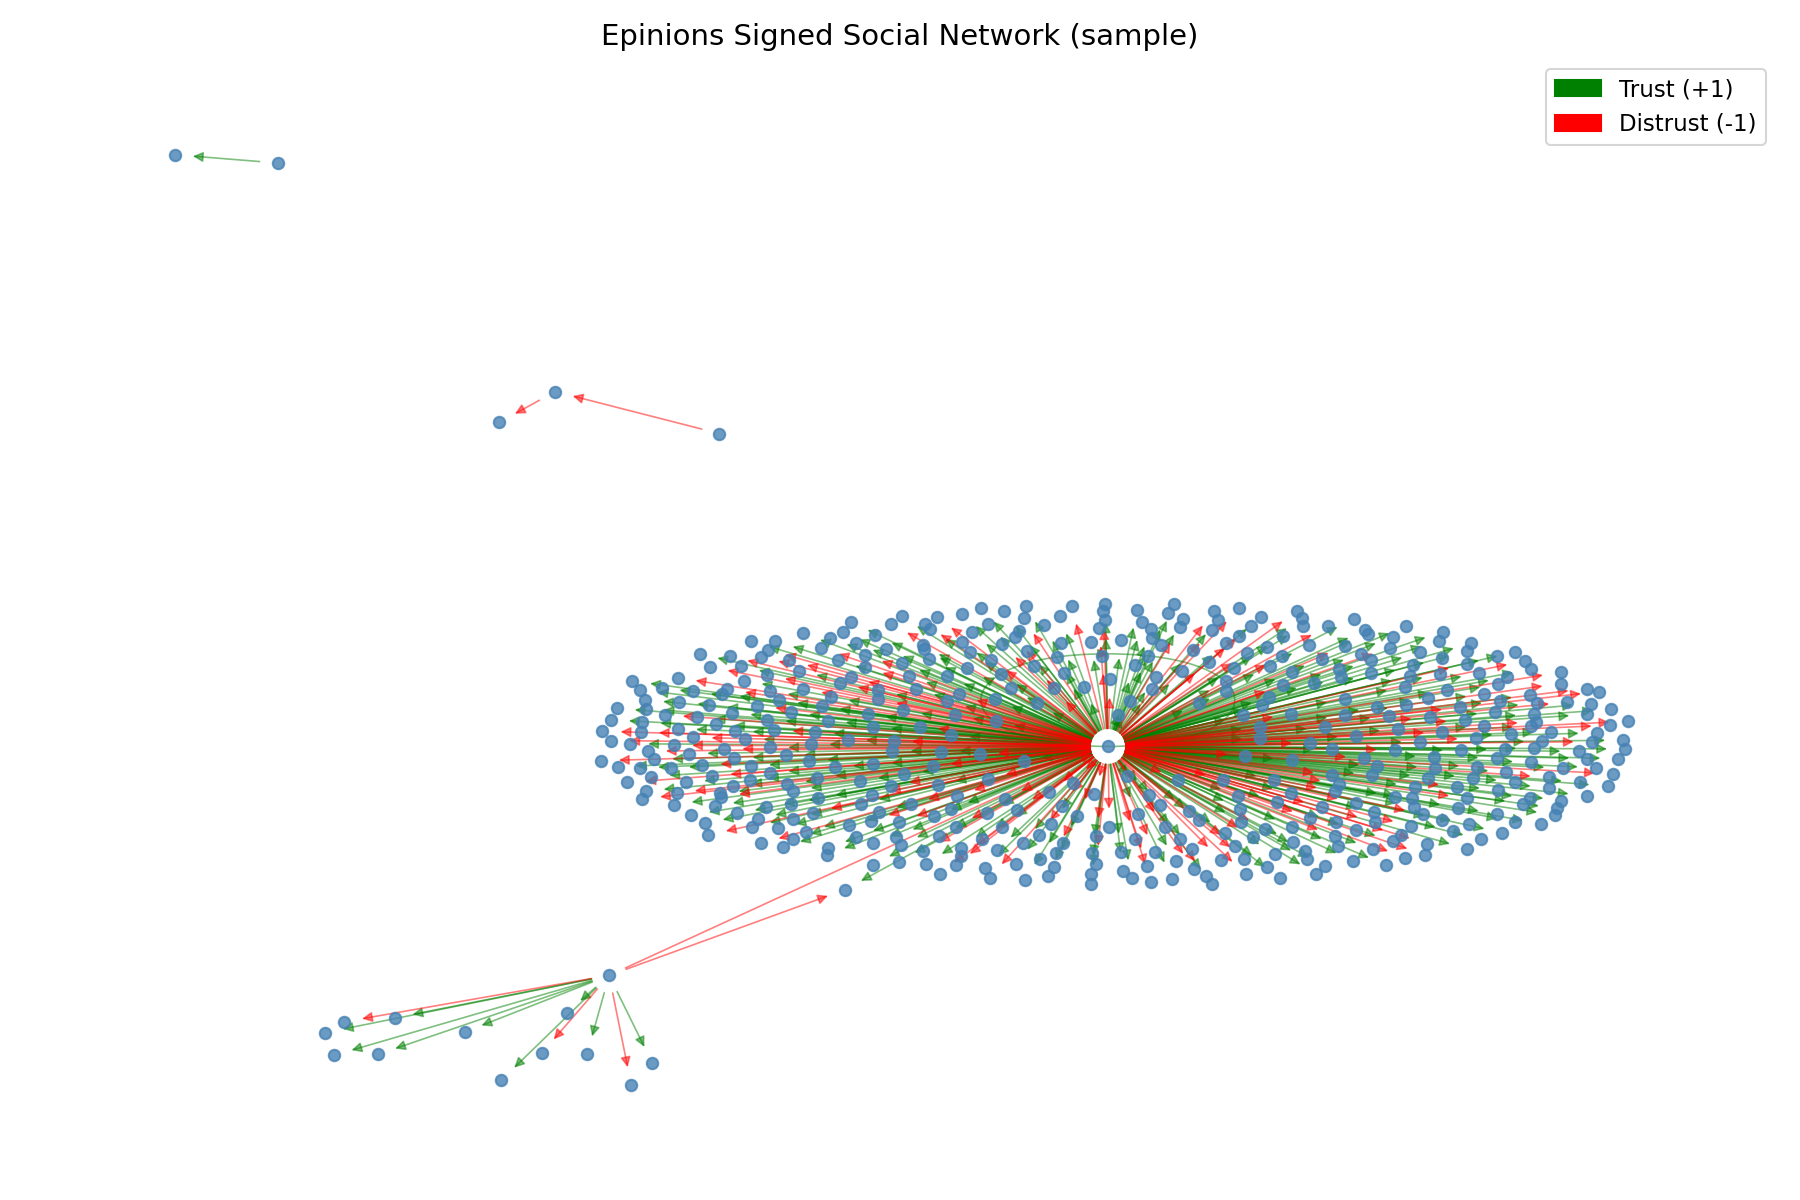
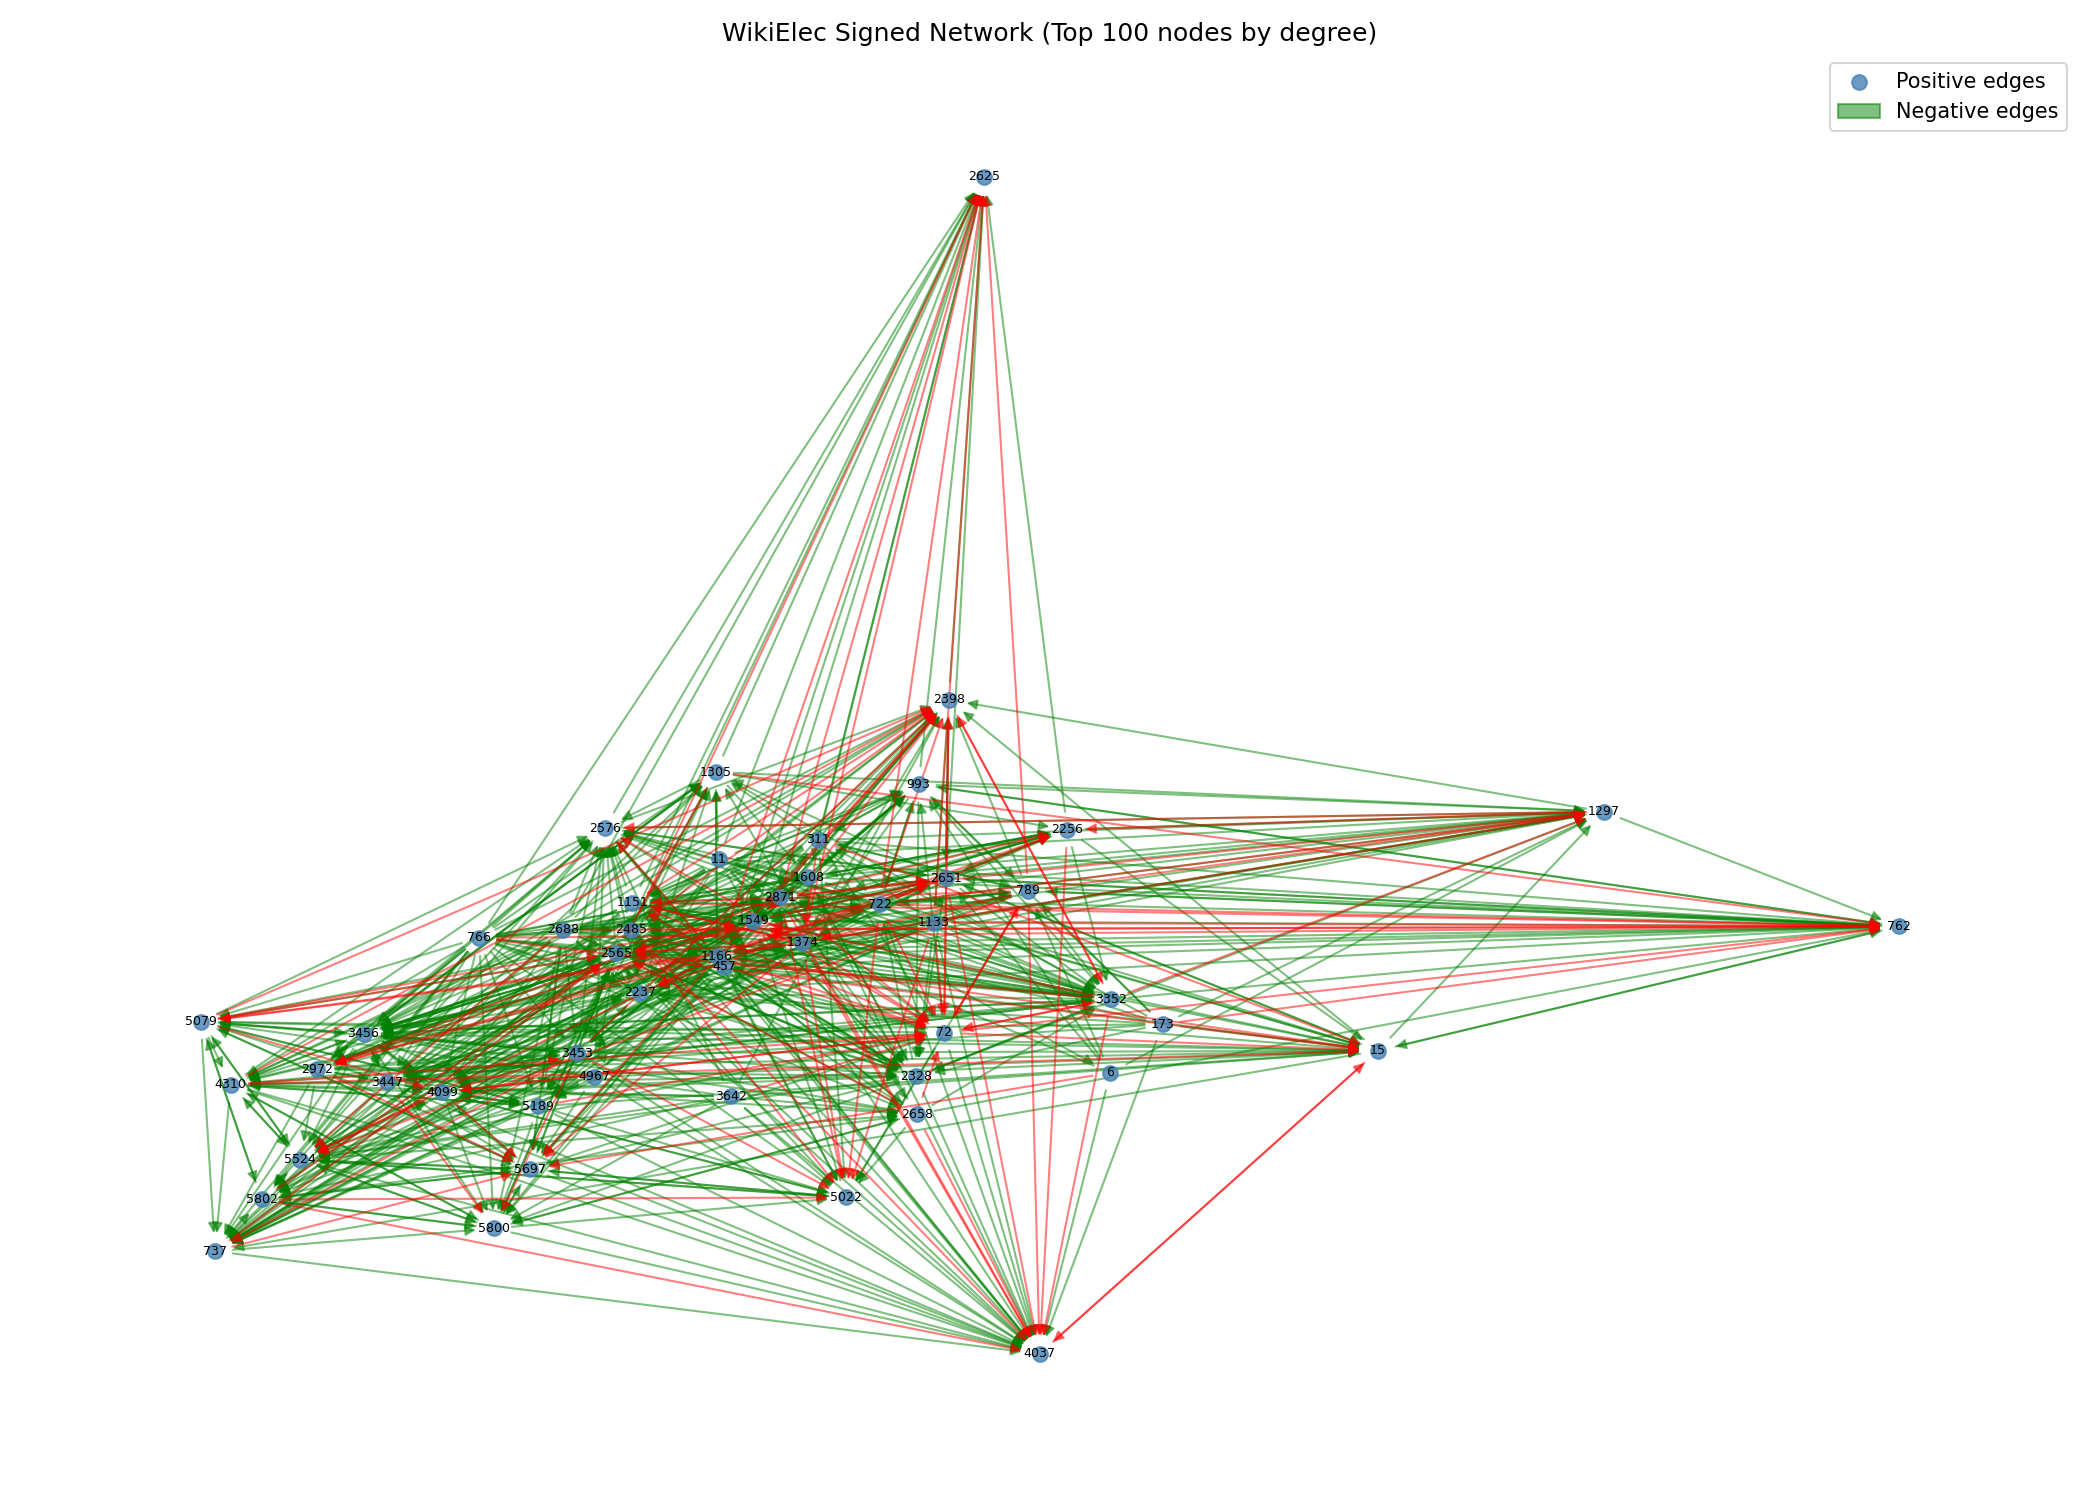
Preprocessing the Wiki dataset

diff --git a/Datasets/Preprocessing_wiki.py b/Datasets/Preprocessing_wiki.py
@@ -1,0 +1,105 @@
+import pandas as pd
+import networkx as nx
+
+
+edges = []
+
+# Read the file and extract edges
+with open('wikiElec.ElecBs3.txt', 'r', encoding='latin-1') as f:
+    candidate_id = None
+    for line in f:
+        line = line.strip()
+        if line.startswith('U'):
+            parts = line.split()
+            candidate_id = int(parts[1])
+        elif line.startswith('V') and candidate_id is not None:
+            parts = line.split()
+            vote = int(parts[1])
+            voter_id = int(parts[2])
+            edges.append((voter_id, candidate_id, vote))
+
+# Create a DataFrame
+df = pd.DataFrame(edges, columns=['source', 'target', 'sign'])
+
+# Remove neutral edges (sign = 0)
+df = df[df['sign'] != 0]
+
+# Aggregate multiple edges between the same nodes
+df = df.groupby(['source', 'target'])['sign'].agg(
+    lambda x: 1 if x.sum() > 0 else -1
+).reset_index()
+
+# Build the graph
+G = nx.DiGraph()
+for _, row in df.iterrows():
+    G.add_edge(row['source'], row['target'], sign=row['sign'])
+
+print(f"Graph has {G.number_of_nodes()} nodes and {G.number_of_edges()} edges.")
+print(f"Positive edges: {sum(1 for _, _, d in G.edges(data=True) if d['sign'] == 1)}")
+print(f"Negative edges: {sum(1 for _, _, d in G.edges(data=True) if d['sign'] == -1)}")
+
+print("Header of the DataFrame:")
+print(df.head())
+
+# Symmetrize the graph
+
+import networkx as nx
+
+def symmetrize(G):
+    """
+    Symmetrize a directed signed graph into an undirected signed graph.
+    
+    Rules:
+    1. Mutual agreement (A→B and B→A same sign): keep that sign
+    2. Conflicting (A→B and B→A different sign): distrust dominates → -1
+    3. One-sided (A→B, no B→A): infer from common neighbors
+       - Same relation to common neighbors → +1
+       - Opposite relation → -1
+       - No common neighbors → default to explicit edge sign
+    """
+    
+    U = nx.Graph()  # undirected output graph
+    visited = set()
+
+    for u, v, data in G.edges(data=True):
+        if (u, v) in visited or (v, u) in visited:
+            continue
+        visited.add((u, v))
+
+        sign_uv = data['sign']
+
+        # Case 1 & 2: mutual edge exists
+        if G.has_edge(v, u):
+            sign_vu = G[v][u]['sign']
+            if sign_uv == sign_vu:
+                U.add_edge(u, v, sign=sign_uv)        # mutual agreement
+            else:
+                U.add_edge(u, v, sign=-1)             # conflicting → distrust dominates
+
+        # Case 3: one-sided edge
+        else:
+            common = set(G.successors(u)) & set(G.successors(v))
+            
+            if not common:
+                # No common neighbors → default to explicit sign
+                U.add_edge(u, v, sign=sign_uv)
+            else:
+                # Infer from common neighbors
+                scores = []
+                for c in common:
+                    sign_uc = G[u][c]['sign']
+                    sign_vc = G[v][c]['sign']
+                    # same relation to c → positive, opposite → negative
+                    scores.append(1 if sign_uc == sign_vc else -1)
+                
+                inferred = 1 if sum(scores) > 0 else -1
+                U.add_edge(u, v, sign=inferred)
+
+    return U
+
+# Apply
+U = symmetrize(G)
+
+print(f"Undirected graph: {U.number_of_nodes()} nodes, {U.number_of_edges()} edges")
+print(f"Positive edges: {sum(1 for _, _, d in U.edges(data=True) if d['sign'] == 1)}")
+print(f"Negative edges: {sum(1 for _, _, d in U.edges(data=True) if d['sign'] == -1)}")

diff --git a/Datasets/Visualiser.py b/Datasets/Visualiser.py
@@ -6,7 +6,7 @@ import matplotlib.patches as mpatches
 # Load a sample of the graph
 G = nx.DiGraph()
 
-with gzip.open('soc-sign-epinions.gz', 'rt') as f:
+with gzip.open('wikiElec.ElecBs3.gz', 'rt') as f:
     for line in f:
         if line.startswith('#'):
             continue
